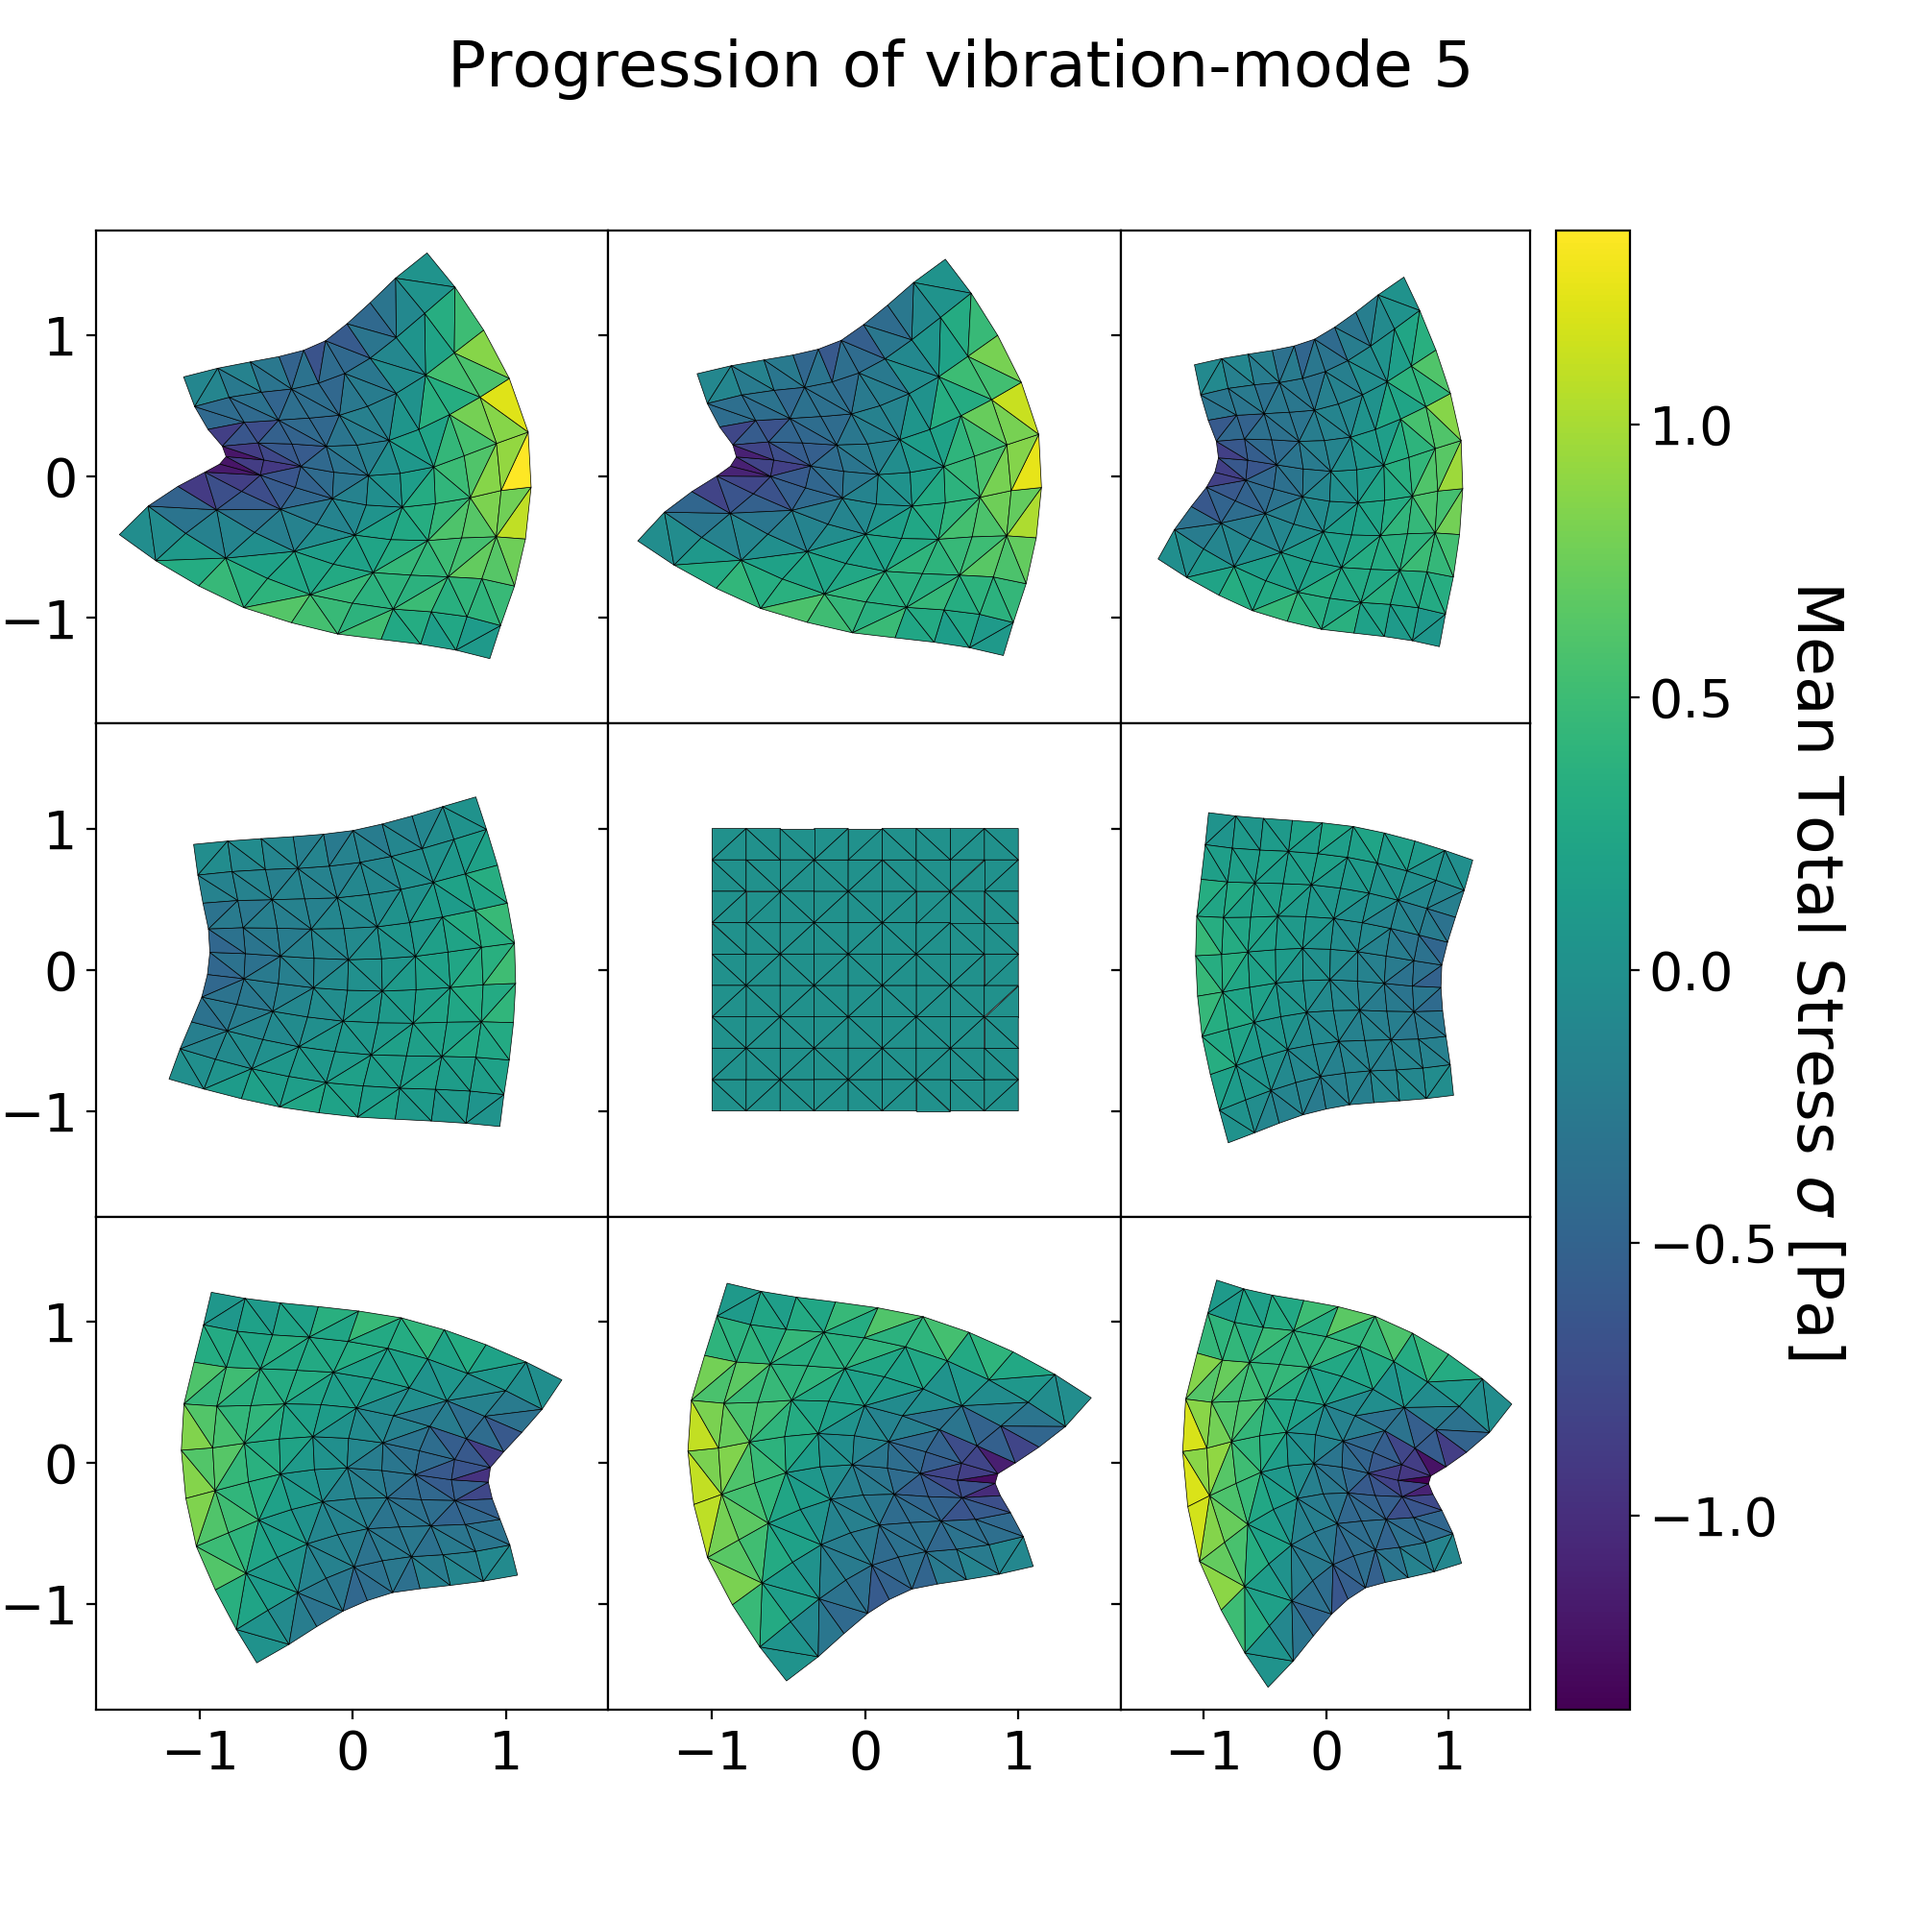
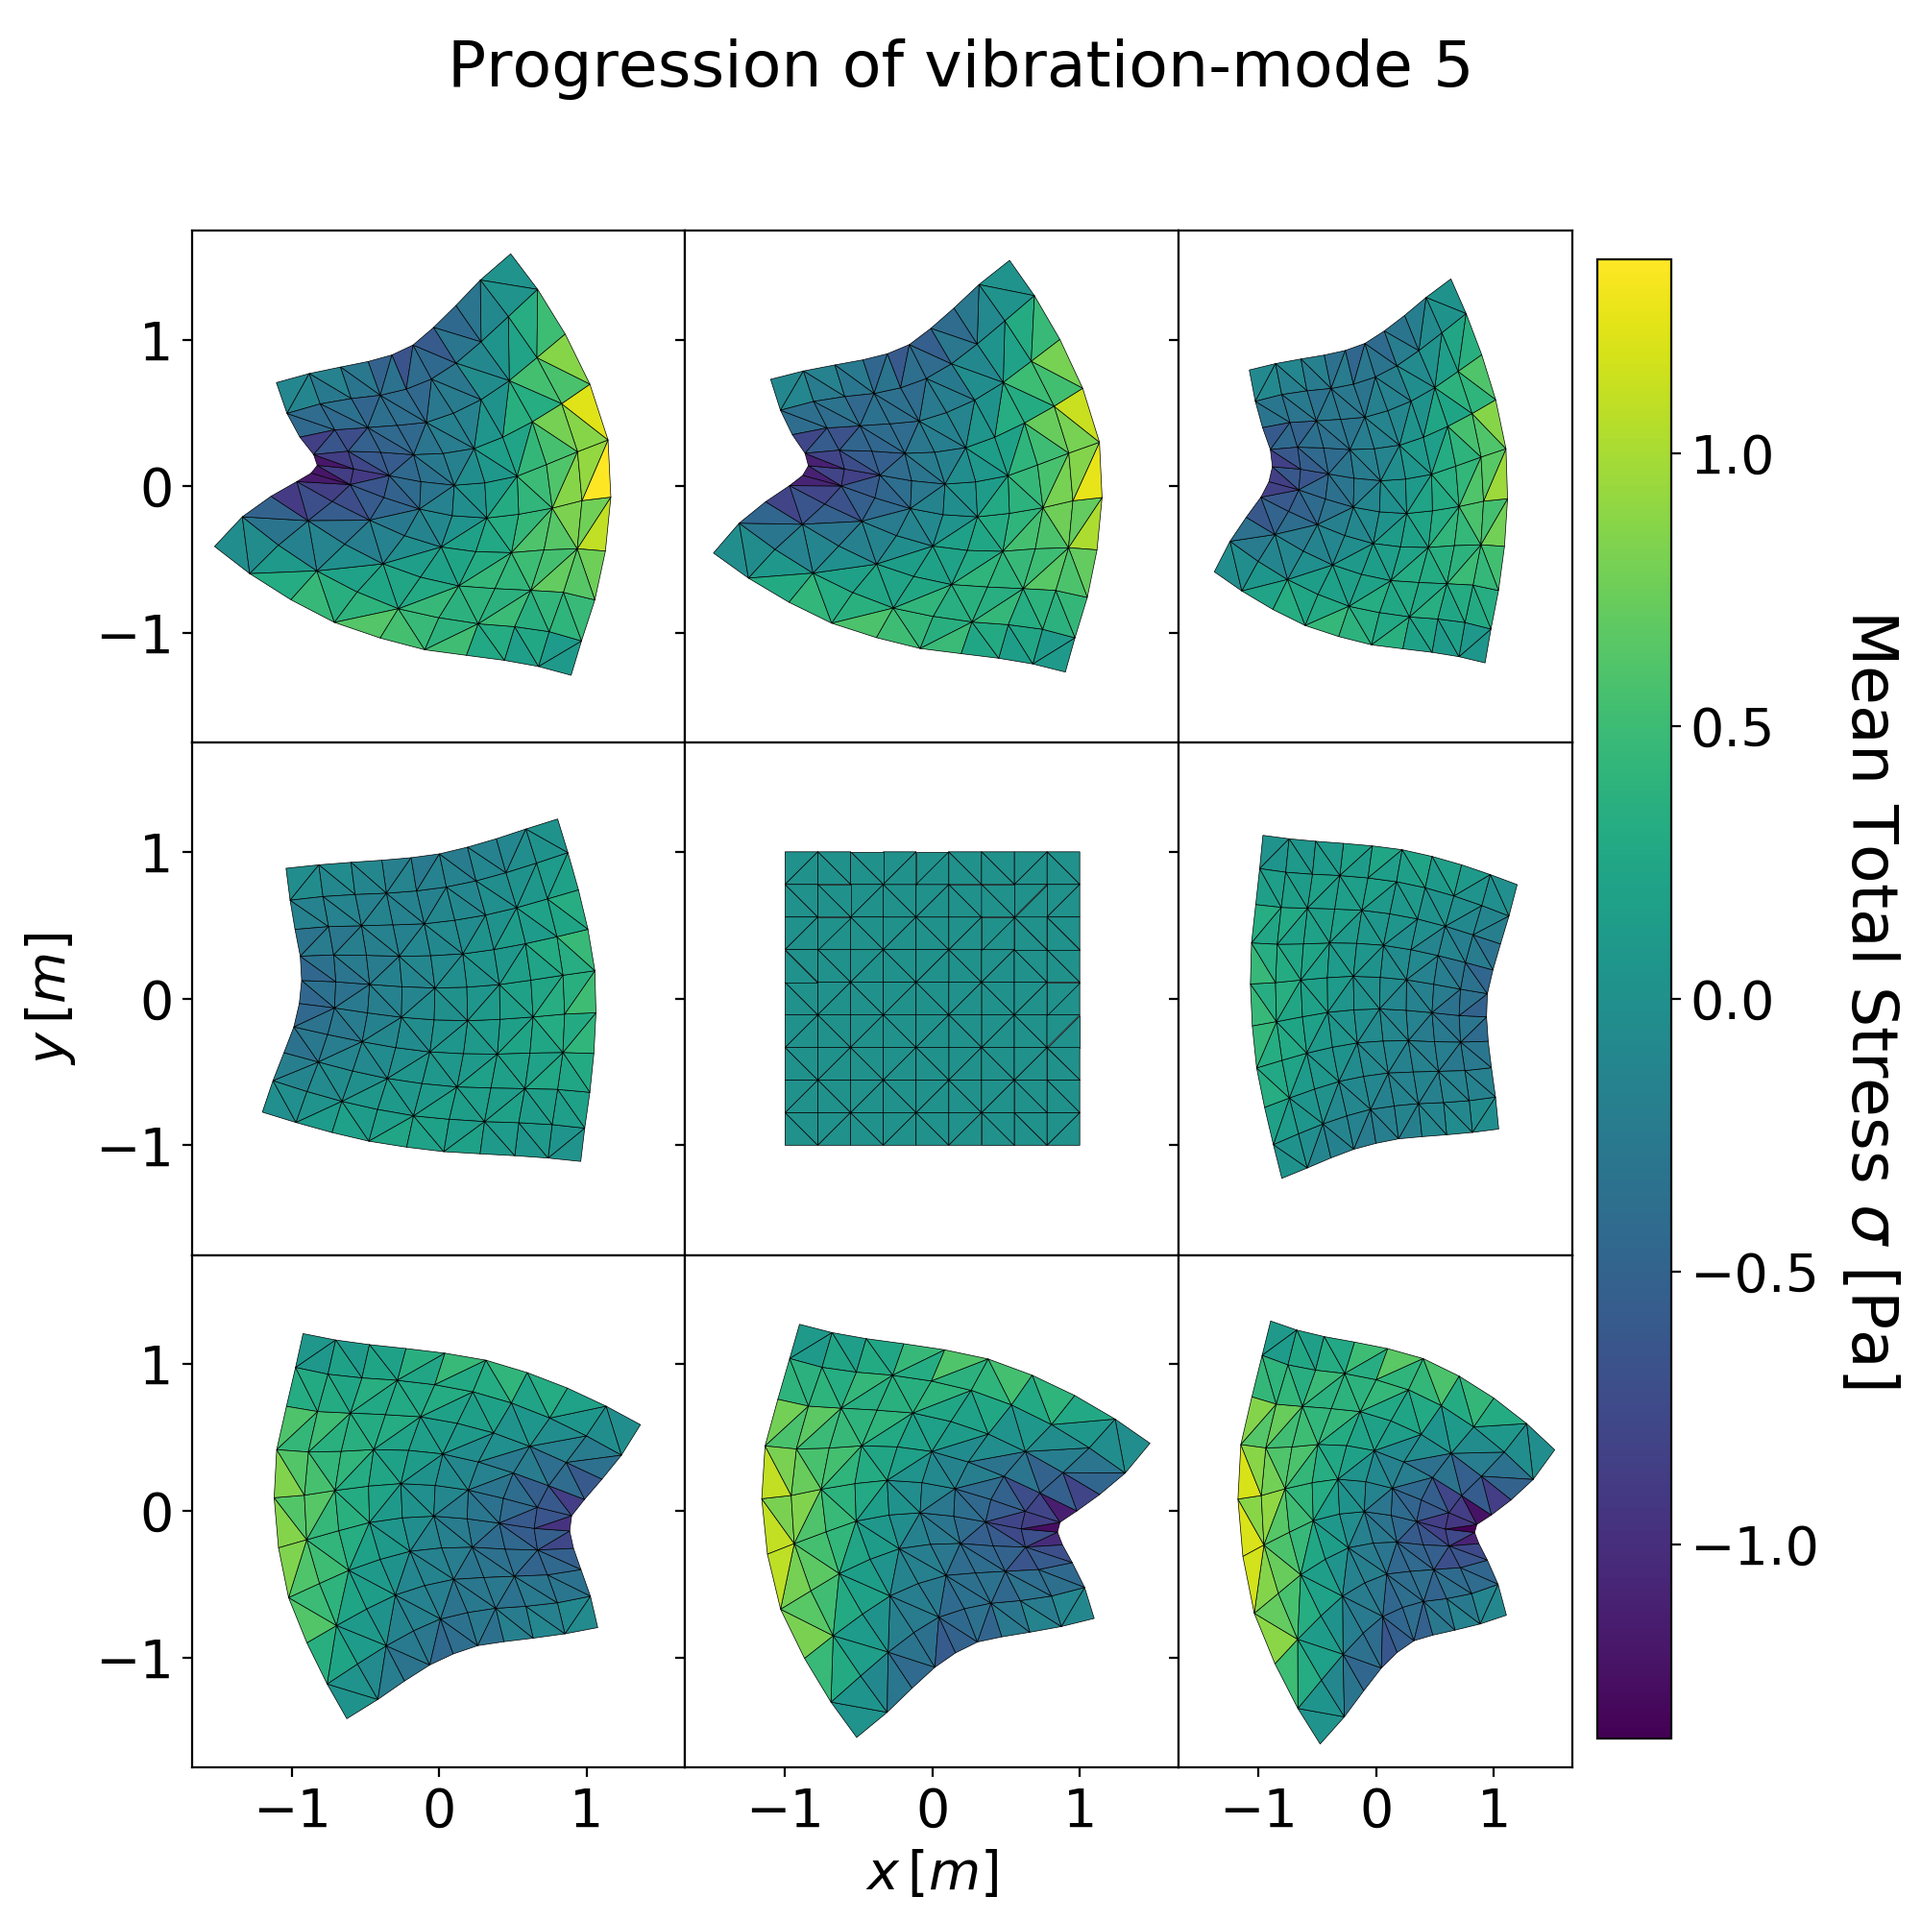
Added labels to mosaic

diff --git a/root/project_2/elasticity_solver.py b/root/project_2/elasticity_solver.py
@@ -669,7 +669,7 @@ class Elasticity2DSolver(Triangular2DFEM):
 
         fig.suptitle(title)
 
-        plt.subplots_adjust(left=0.05, wspace=0, hspace=0, right=0.85)
+        plt.subplots_adjust(left=0.10, bottom=0.08, wspace=0, hspace=0, right=0.87)
         K = dims[0] * dims[1]
 
         for i, phi in enumerate(np.linspace(0, np.pi, K)):
@@ -677,8 +677,14 @@ class Elasticity2DSolver(Triangular2DFEM):
                     norm=norm, show=False, ax=axs.flatten()[i])
 
         cbar = fig.colorbar(mpl.cm.ScalarMappable(norm=norm, cmap=None), ax=axs[:,dims[1]-1])
-        cbar.ax.get_yaxis().labelpad = 25
+        cbar.ax.get_yaxis().labelpad = 30
         cbar.set_label(r"Mean Total Stress $\sigma$ [Pa]", rotation=270, fontsize=24)
+
+        labax = fig.add_subplot(111, frameon=False)
+        # hide tick and tick label of the big axis
+        labax.tick_params(labelcolor='none', top=False, bottom=False, left=False, right=False)
+        labax.set_xlabel("$x \, [m]$")
+        labax.set_ylabel("$y \, [m]$")
 
         if savename is not None:
             fig.savefig(f"root/project_2/figures/{savename}.png", dpi=dpi)
